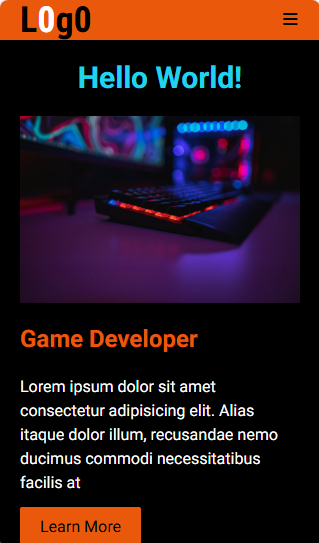
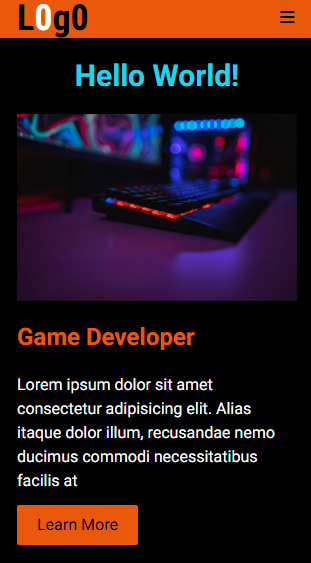
Game developer corrected

Changed region(s): [[0.0, 0.0, 1.0, 1.0], [0.9839, 0.0, 1.0, 0.0295], [0.0, 0.0, 0.0289, 0.0295]]

diff --git a/game-developer.html b/game-developer.html
@@ -30,7 +30,7 @@
     </script>
 </head>
 <body>
-    <main class="container bg-black font-roboto">
+    <main class="bg-black font-roboto lg:h-screen">
         <nav class="flex justify-between h-15 items-center text-black bg-orange-600 lg:px-20 px-5">
         <h1 class="text-4xl font-robotocondensed font-bold">L<span class="text-white">0</span>g<span>0</span></h1>
             <div class="flex gap-6 items-center">
@@ -57,7 +57,7 @@
                     <img src="./images/gamer.jpg" alt="gamer">
                 </div>
                 <div class="flex items-center">
-                    <div class="">
+                    <div class="pb-10">
                         <h3 class="text-orange-600 font-bold text-2xl mb-5">Game Developer</h3>
                         <p class="text-white mb-3">Lorem ipsum dolor sit amet consectetur adipisicing elit. Alias itaque dolor illum, recusandae nemo ducimus commodi necessitatibus facilis at </p>
                         <button class="px-5 py-2 text-black bg-orange-600 rounded-sm border-transparent">Learn More</button>
